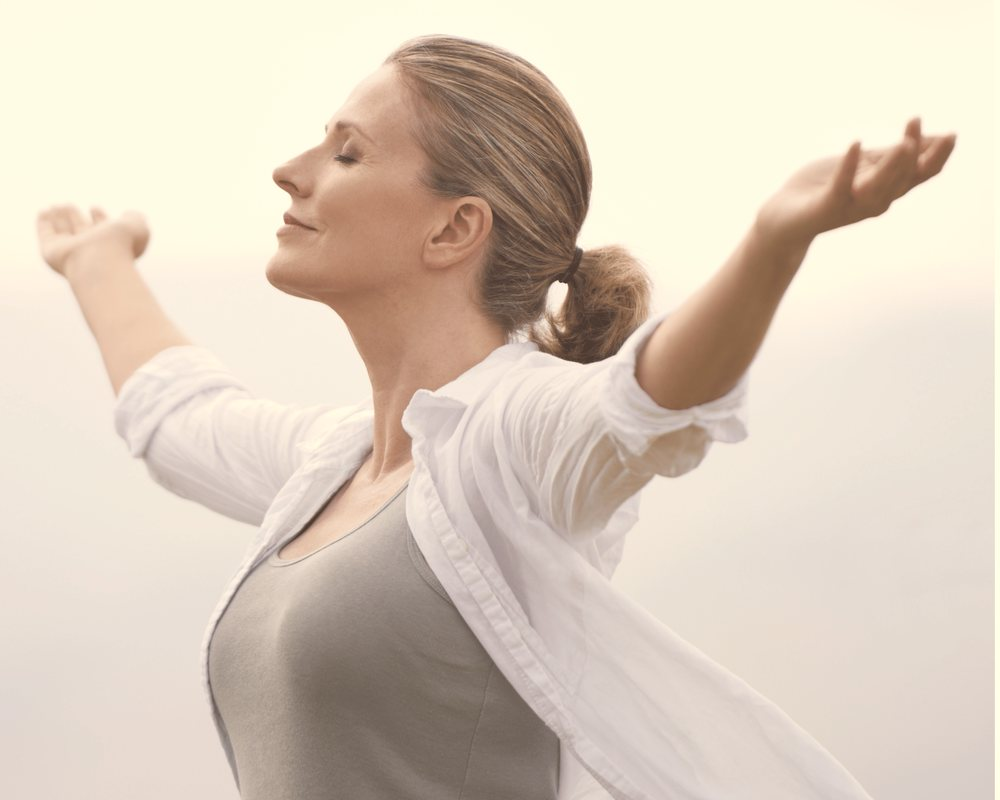
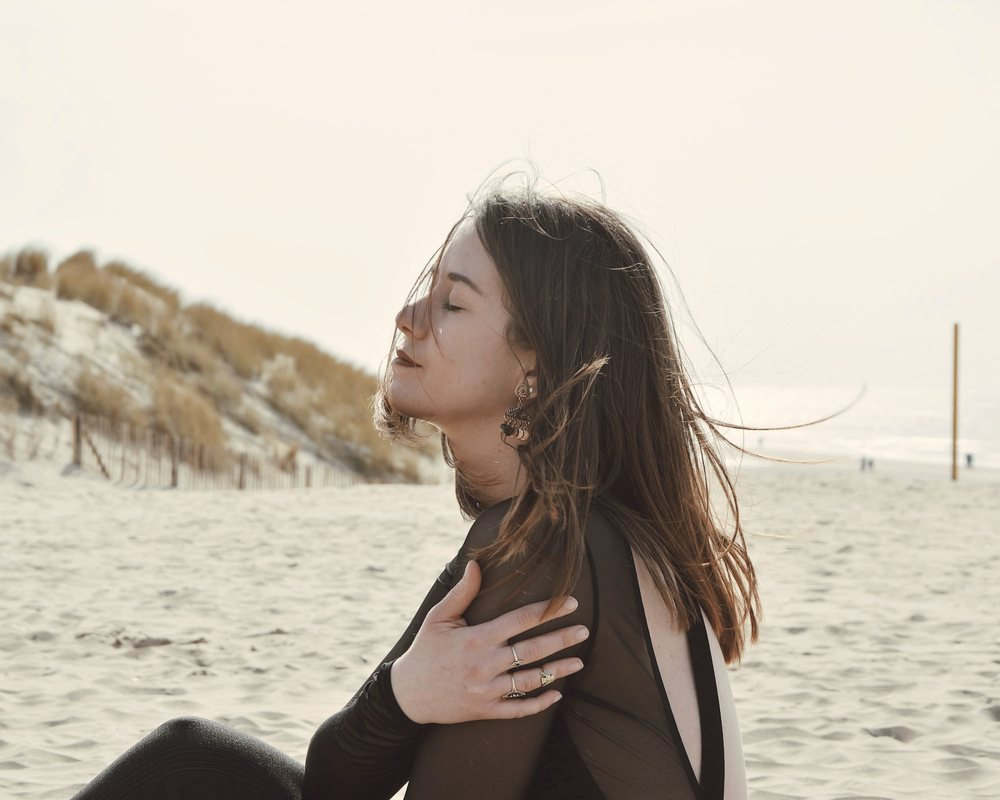
Samadhi hero: zena na pijesku s rukom na srcu (v=89)

diff --git a/samadhi.html b/samadhi.html
@@ -7,7 +7,7 @@
 <link rel="preconnect" href="https://fonts.googleapis.com">
 <link rel="preconnect" href="https://fonts.gstatic.com" crossorigin>
 <link href="https://fonts.googleapis.com/css2?family=Lora:ital,wght@0,400;0,500;0,600;0,700;1,400&family=Open+Sans:wght@300;400;500;600;700&display=swap" rel="stylesheet">
-<link rel="stylesheet" href="style.css?v=88">
+<link rel="stylesheet" href="style.css?v=89">
 </head>
 <body class="fw">
 
@@ -37,7 +37,7 @@
       <p>Povratak sebi i život u skladu sa svojom unutarnjom istinom.</p>
       <a href="kontakt.html" class="btn">Dogovori uvodni razgovor</a>
     </div>
-    <img class="hero-more-mobile" src="img/hero-samadhi-mob.jpg?8" alt="">
+    <img class="hero-more-mobile" src="img/hero-samadhi-mob.jpg?9" alt="">
   </div>
 </section>
 

diff --git a/style.css b/style.css
@@ -474,7 +474,7 @@ ul.ls.cols2{display:grid;grid-template-columns:1fr 1fr;gap:12px 34px;margin-bott
 .checklist li{position:relative;padding-left:32px;font-size:15px;line-height:1.6;}
 .checklist li svg{position:absolute;left:0;top:3px;width:18px;height:18px;stroke:#a97e58;fill:none;stroke-width:1.8;stroke-linecap:round;stroke-linejoin:round;}
 @media (max-width:900px){.check2{grid-template-columns:1fr;gap:28px;}}
-.hero.hero-more.hero-sam{background-image:url('img/hero-samadhi.jpg?8');background-position:right top;}
+.hero.hero-more.hero-sam{background-image:url('img/hero-samadhi.jpg?9');background-position:right 30%;}
 .fw .article{max-width:1140px;}
 .hero.hero-more.hero-sp{background-image:url('img/hero-sp.jpg?5');background-position:right top;}
 @media (max-width:700px){

diff --git a/blog.html b/blog.html
@@ -7,7 +7,7 @@
 <link rel="preconnect" href="https://fonts.googleapis.com">
 <link rel="preconnect" href="https://fonts.gstatic.com" crossorigin>
 <link href="https://fonts.googleapis.com/css2?family=Lora:ital,wght@0,400;0,500;0,600;0,700;1,400&family=Open+Sans:wght@300;400;500;600;700&display=swap" rel="stylesheet">
-<link rel="stylesheet" href="style.css?v=88">
+<link rel="stylesheet" href="style.css?v=89">
 </head>
 <body class="fw">
 

diff --git a/faq.html b/faq.html
@@ -7,7 +7,7 @@
 <link rel="preconnect" href="https://fonts.googleapis.com">
 <link rel="preconnect" href="https://fonts.gstatic.com" crossorigin>
 <link href="https://fonts.googleapis.com/css2?family=Lora:ital,wght@0,400;0,500;0,600;0,700;1,400&family=Open+Sans:wght@300;400;500;600;700&display=swap" rel="stylesheet">
-<link rel="stylesheet" href="style.css?v=88">
+<link rel="stylesheet" href="style.css?v=89">
 </head>
 <body class="fw">
 

diff --git a/index.html b/index.html
@@ -7,7 +7,7 @@
 <link rel="preconnect" href="https://fonts.googleapis.com">
 <link rel="preconnect" href="https://fonts.gstatic.com" crossorigin>
 <link href="https://fonts.googleapis.com/css2?family=Lora:ital,wght@0,400;0,500;0,600;0,700;1,400&family=Open+Sans:wght@300;400;500;600;700&display=swap" rel="stylesheet">
-<link rel="stylesheet" href="style.css?v=88">
+<link rel="stylesheet" href="style.css?v=89">
 </head>
 <body class="fw">
 

diff --git a/kolacici.html b/kolacici.html
@@ -7,7 +7,7 @@
 <link rel="preconnect" href="https://fonts.googleapis.com">
 <link rel="preconnect" href="https://fonts.gstatic.com" crossorigin>
 <link href="https://fonts.googleapis.com/css2?family=Lora:ital,wght@0,400;0,500;0,600;0,700;1,400&family=Open+Sans:wght@300;400;500;600;700&display=swap" rel="stylesheet">
-<link rel="stylesheet" href="style.css?v=88">
+<link rel="stylesheet" href="style.css?v=89">
 </head>
 <body class="fw">
 

diff --git a/konstelacije.html b/konstelacije.html
@@ -7,7 +7,7 @@
 <link rel="preconnect" href="https://fonts.googleapis.com">
 <link rel="preconnect" href="https://fonts.gstatic.com" crossorigin>
 <link href="https://fonts.googleapis.com/css2?family=Lora:ital,wght@0,400;0,500;0,600;0,700;1,400&family=Open+Sans:wght@300;400;500;600;700&display=swap" rel="stylesheet">
-<link rel="stylesheet" href="style.css?v=88">
+<link rel="stylesheet" href="style.css?v=89">
 </head>
 <body class="fw">
 

diff --git a/kontakt.html b/kontakt.html
@@ -7,7 +7,7 @@
 <link rel="preconnect" href="https://fonts.googleapis.com">
 <link rel="preconnect" href="https://fonts.gstatic.com" crossorigin>
 <link href="https://fonts.googleapis.com/css2?family=Lora:ital,wght@0,400;0,500;0,600;0,700;1,400&family=Open+Sans:wght@300;400;500;600;700&display=swap" rel="stylesheet">
-<link rel="stylesheet" href="style.css?v=88">
+<link rel="stylesheet" href="style.css?v=89">
 </head>
 <body class="fw">
 

diff --git a/omeni.html b/omeni.html
@@ -7,7 +7,7 @@
 <link rel="preconnect" href="https://fonts.googleapis.com">
 <link rel="preconnect" href="https://fonts.gstatic.com" crossorigin>
 <link href="https://fonts.googleapis.com/css2?family=Lora:ital,wght@0,400;0,500;0,600;0,700;1,400&family=Open+Sans:wght@300;400;500;600;700&display=swap" rel="stylesheet">
-<link rel="stylesheet" href="style.css?v=88">
+<link rel="stylesheet" href="style.css?v=89">
 </head>
 <body class="fw">
 

diff --git a/portal.html b/portal.html
@@ -7,7 +7,7 @@
 <link rel="preconnect" href="https://fonts.googleapis.com">
 <link rel="preconnect" href="https://fonts.gstatic.com" crossorigin>
 <link href="https://fonts.googleapis.com/css2?family=Lora:ital,wght@0,400;0,500;0,600;0,700;1,400&family=Open+Sans:wght@300;400;500;600;700&display=swap" rel="stylesheet">
-<link rel="stylesheet" href="style.css?v=88">
+<link rel="stylesheet" href="style.css?v=89">
 </head>
 <body class="fw">
 

diff --git a/post.html b/post.html
@@ -7,7 +7,7 @@
 <link rel="preconnect" href="https://fonts.googleapis.com">
 <link rel="preconnect" href="https://fonts.gstatic.com" crossorigin>
 <link href="https://fonts.googleapis.com/css2?family=Lora:ital,wght@0,400;0,500;0,600;0,700;1,400&family=Open+Sans:wght@300;400;500;600;700&display=swap" rel="stylesheet">
-<link rel="stylesheet" href="style.css?v=88">
+<link rel="stylesheet" href="style.css?v=89">
 </head>
 <body class="fw">
 

diff --git a/privatnost.html b/privatnost.html
@@ -7,7 +7,7 @@
 <link rel="preconnect" href="https://fonts.googleapis.com">
 <link rel="preconnect" href="https://fonts.gstatic.com" crossorigin>
 <link href="https://fonts.googleapis.com/css2?family=Lora:ital,wght@0,400;0,500;0,600;0,700;1,400&family=Open+Sans:wght@300;400;500;600;700&display=swap" rel="stylesheet">
-<link rel="stylesheet" href="style.css?v=88">
+<link rel="stylesheet" href="style.css?v=89">
 </head>
 <body class="fw">
 
